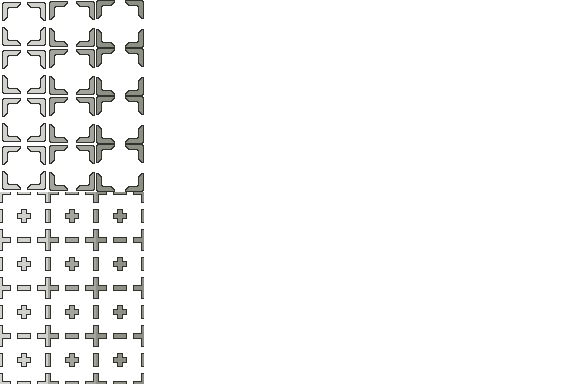
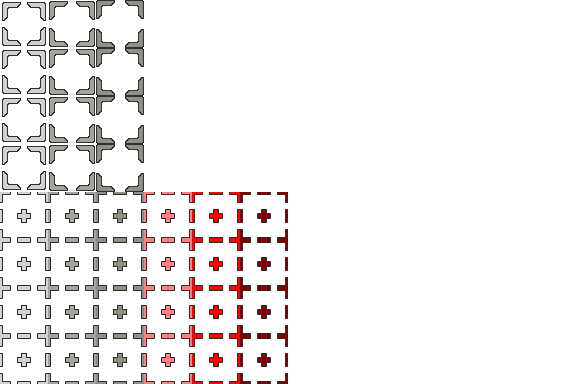
System changes part 3
Made "followup" hits that only trigger if at least one non-followup hit isn't dodged, and adjusted target finding accordingly. Moved "inital" action effects into hits, so every hit can have its own initial animation. Made a few math adjustments. Graphical display of AoEs is now different for followup and non-followup hits.

Changed region(s): [[0.25, 0.5, 0.5, 1.0]]

diff --git a/js/plugins/TurnBasedStrategyManagers.js b/js/plugins/TurnBasedStrategyManagers.js
@@ -136,10 +136,12 @@ BattleManager.initMembers = function() {
 	this._tbsActionInfo = null;
 	this._tbsTargets = [];
 	this._tbsTargetsByHit = [];
+	this._nonFollowupsAllDodged = true;
 	this._targetsOnLeft = false;
     this._subject = null;
     this._action = null;
     this._targets = [];
+	this._resultsArray = [];
     this._logWindow = null;
     this._leftActorStatusWindow = null;
     this._rightActorStatusWindow = null;
@@ -152,6 +154,10 @@ BattleManager.initMembers = function() {
 	this._curWindowTarget = null;
 	this._switchTargetTime = 30;
 	this._curSwitchTargetTime = -1;
+};
+
+BattleManager.resetNonFollowupsAllDodged = function() {
+	this._nonFollowupsAllDodged = true;
 };
 
 BattleManager.setLeftActorStatusWindow = function(actorStatusWindow) {
@@ -462,10 +468,26 @@ BattleManager.makeActionOrders = function() {
 BattleManager.startAction = function() {
     var subject = this._subject;
     var action = this._tbsActionInfo.action;
-    var targets = this._tbsTargets;
+    var targets = [];
+	var that = this;
+	this._tbsTargets.forEach(function (target) {
+		var results = that.combatMath(subject.battler, that._tbsActionInfo, target.battler, that._tbsTargetsByHit);
+		if(!results.skipTarget) {
+			targets.push(target);
+			that._resultsArray.push(results);
+		}
+	});
+    this._targets = targets;
+	this._tbsTargets = targets;
+	if(this._targetsOnLeft) {
+		this.refreshLeftActorStatusWindow();
+		this.refreshLeftActorNameWindow();
+	} else {
+		this.refreshRightActorStatusWindow();
+		this.refreshRightActorNameWindow();
+	}
     this._phase = 'action';
     this._action = action;
-    this._targets = targets;
     //subject.useItem(action.item());
     //this._action.applyGlobal();
     this.refreshStatus();
@@ -502,7 +524,8 @@ BattleManager.updateAction = function() {
 		}
 		this._curSwitchTargetTime = -1;
 		var target = this._targets.shift();
-        this.invokeAction(this._subject.battler, target.battler);
+		var results = this._resultsArray.shift();
+        this.invokeAction(this._subject.battler, target.battler, results);
     } else {
         this.endAction();
     }
@@ -515,26 +538,25 @@ BattleManager.endAction = function() {
 	$gameMap.setShouldPassTurn(this._shouldPassTurn);
 };
 
-BattleManager.invokeAction = function(subject, target) {
+BattleManager.invokeAction = function(subject, target, results) {
     this._logWindow.push('pushBaseLine');
     //if (Math.random() < this._action.itemCnt(target)) {
     //    this.invokeCounterAttack(subject, target);
     //} else if (Math.random() < this._action.itemMrf(target)) {
     //    this.invokeMagicReflection(subject, target);
     //} else {
-        this.invokeNormalAction(subject, target);
+        this.invokeNormalAction(subject, target, results);
     //}
     //subject.setLastTarget(target);
     this._logWindow.push('popBaseLine');
     this.refreshStatus();
 };
 
-BattleManager.invokeNormalAction = function(subject, target) {
+BattleManager.invokeNormalAction = function(subject, target, results) {
     //var realTarget = this.applySubstitute(target);
-	var results = this.combatMath(subject, this._tbsActionInfo, target, this._tbsTargetsByHit);
     //this._action.apply(realTarget);
 	this.applyActionResults(results, target);
-    this._logWindow.displayActionResults(subject, target, results);
+	this._logWindow.displayActionResults(subject, target, results);
 };
 
 BattleManager.combatMath = function(subject, actionInfo, target, targetsByHit) {
@@ -593,6 +615,7 @@ BattleManager.combatMath = function(subject, actionInfo, target, targetsByHit) {
 	results.revived = false;
 	results.shouldPassTurn = true;
 	results.animationIds = [];
+	results.skipTarget = true;
 	var hitDodged = true;
 	if(target.blankDummy()) {
 		results.shouldPassTurn = false;
@@ -602,6 +625,12 @@ BattleManager.combatMath = function(subject, actionInfo, target, targetsByHit) {
 	for(i = 0; i < action.hits.length; i++) {
 		if(battlersByHit[i].indexOf(target) === -1) { continue; }
 		var hit = action.hits[i];
+		if((hit.rangeType === "followUp" && this._nonFollowupsAllDodged)
+			|| (hit.randomTarget && Math.random() < 0.5))
+		{
+			continue;
+		}
+		results.skipTarget = false;
 		var damage = hit.damage;
 		if(damage) {
 			var subjectStress = subject.stress();
@@ -616,6 +645,7 @@ BattleManager.combatMath = function(subject, actionInfo, target, targetsByHit) {
 						break;
 					case "thrown":
 					case "fired":
+					case "followUp":
 						accSkill = subject.totalSkill("rangedAcc");
 						break;
 					case "mental":
@@ -990,6 +1020,9 @@ BattleManager.combatMath = function(subject, actionInfo, target, targetsByHit) {
 		} else if(!hitDodged && hit.animationId !== undefined && hit.animationId > 0) {
 			results.animationIds.push(hit.animationId);
 		}
+		if(!hitDodged) {
+			this._nonFollowupsAllDodged = false;
+		}
 	}
 	return results;
 };
@@ -1354,8 +1387,10 @@ BattleManager.resolvePhysicalDamage = function(hitDamage, accRoll, eva, partProt
 	var fluidBypass = false;
 	
 	if(partProt.defense.solid >= 3) {
+		solidThrustBypass = solidDamScale >= 2;
 		solidStilettoBypass = solidDamScale >= 1.5;
 	} else if(partProt.defense.solid >= 2) {
+		solidRegularBypass = solidDamScale >= 2;
 		solidThrustBypass = solidDamScale >= 1.5;
 		solidStilettoBypass = solidDamScale >= 1;
 	} else if(partProt.defense.solid >= 1) {
@@ -1363,8 +1398,8 @@ BattleManager.resolvePhysicalDamage = function(hitDamage, accRoll, eva, partProt
 		solidThrustBypass = solidDamScale >= 1;
 		solidStilettoBypass = solidDamScale >= 0.5;
 	} else {
-		solidRegularBypass = true;
-		solidThrustBypass = true;
+		solidRegularBypass = solidDamScale >= 1;
+		solidThrustBypass = solidDamScale >= 0.5;
 		solidStilettoBypass = true;
 	}
 	
@@ -1447,7 +1482,7 @@ BattleManager.rollForRanks = function(ranks, stress) {
 	var adjustStress = Math.max(0, Math.min(5, stress));
 	var adjustedRanks = Math.max(1, ranks + 2 - adjustStress);
 	if(adjustStress >= 5) {
-		adjustedRanks = Math.floor(adjustedRanks / 2);
+		adjustedRanks = Math.max(1, Math.floor(adjustedRanks / 2));
 	}
 	var result = 0;
 	while(adjustedRanks > 0) {

diff --git a/js/plugins/TurnBasedStrategyObjects.js b/js/plugins/TurnBasedStrategyObjects.js
@@ -160,13 +160,13 @@
 		return this._tbsAoeSpritesToAdd;
 	};
 	
-	Game_Temp.prototype.addTbsAoeSprite = function(x, y) {
+	Game_Temp.prototype.addTbsAoeSprite = function(x, y, isFollowUp) {
 		var chara = new Game_Character();
 		chara.setStepAnime(true);
 		chara.setPriorityType(2);
 		chara.setTbsBattleMode(true);
 		chara.setPosition(x, y);
-		chara.setImage("Cursor", 4);
+		chara.setImage("Cursor", isFollowUp ? 4 : 5);
 		this._tbsAoeSpritesToAdd.push(chara);
 		return chara;
 	};
@@ -632,11 +632,13 @@
 		return this._tbsActionTargetLocationY;
 	};
 	
-	Game_Map.prototype.isAnyTbsActionTargets = function() {
+	Game_Map.prototype.isAnyTbsActionTargets = function(ignoreFollowUpHits) {
 		var targetsByHit = this.getTbsActionTargetsByHit();
+		var hits = this._tbsSelectedAction.hits;
 		var i;
 		for(i = 0; i < targetsByHit.length; i++) {
-			if(targetsByHit[i].length > 1 || (targetsByHit[i].length === 1 && !targetsByHit[i][0].battler.blankDummy())) { return true; }
+			if((!ignoreFollowUpHits || hits[i].rangeType !== "followUp") && (targetsByHit[i].length > 1
+				|| (targetsByHit[i].length === 1 && !targetsByHit[i][0].battler.blankDummy()))) { return true; }
 		}
 		return false;
 	};
@@ -669,7 +671,6 @@
 		hits.forEach(function (hit) {
 			var targets = [];
 			if(hit.aoe !== undefined && hit.aoe > 0) {
-				targets.push(centerTarget);
 				var centerPointX = $gamePlayer.x;
 				var centerPointY = $gamePlayer.y;
 				var aoeRange = hit.aoe / 2;
@@ -719,7 +720,7 @@
 							|| that.getExistingTbsTile(x, y, that._tbsAoeSprites)) { continue; }
 						var distance = that.actualDistance(x, y, centerPointX, centerPointY);
 						if(distance <= aoeRange) {
-							that._tbsAoeSprites.push($gameTemp.addTbsAoeSprite(x, y));
+							that._tbsAoeSprites.push($gameTemp.addTbsAoeSprite(x, y, hit.rangeType === "followUp"));
 						}
 					}
 				}
@@ -941,7 +942,7 @@
 				break;
 			case "actionBattleScene":
 				$gamePlayer.setTbsShowCursor(true);
-				if(!this._tbsSelectedAction.skipBattleScene && this.isAnyTbsActionTargets()) {
+				if(!this._tbsSelectedAction.skipBattleScene && this.isAnyTbsActionTargets(true)) {
 					this._tbsInActionBattleScene = true;
 				}
 				var chara = this._tbsSelectedActor.chara;
@@ -1666,7 +1667,7 @@
 	
 	Game_Map.prototype.updateTbsActionBattleScene = function() {
 		if(this._tbsInActionBattleScene) { return; }
-		if(!this._tbsSelectedAction.skipBattleScene && this.isAnyTbsActionTargets()) {
+		if(!this._tbsSelectedAction.skipBattleScene && this.isAnyTbsActionTargets(true)) {
 			if(this._tbsCurAfterBtlScnFrames === -1) {
 				this._tbsCurAfterBtlScnFrames = this._tbsAfterBtlScnFrames;
 				return;
@@ -1678,18 +1679,21 @@
 			}
 		}
 		this._tbsCurAfterBtlScnFrames = -1;
-		if(this._tbsSelectedAction.skipBattleScene || !this.isAnyTbsActionTargets()) {
+		if(this._tbsSelectedAction.skipBattleScene || !this.isAnyTbsActionTargets(true)) {
 			var tbsTargets = this.getTbsActionTargets();
 			var tbsTargetsByHit = this.getTbsActionTargetsByHit();
 			if(tbsTargets.length > 0) {
 				var that = this;
 				tbsTargets.forEach(function (tbsTarget) {
+					BattleManager.resetNonFollowupsAllDodged();
 					var results = BattleManager.combatMath(that._tbsSelectedActor.battler, that._tbsSelectedActionInfo, tbsTarget.battler, tbsTargetsByHit);
-					BattleManager.applyActionResults(results, tbsTarget.battler);
+					if(!results.skipTarget) {
+						BattleManager.applyActionResults(results, tbsTarget.battler);
+					}
 				});
 			}
 		}
-		if(this.isAnyTbsActionTargets()) {
+		if(this.isAnyTbsActionTargets(false)) {
 			this.getTbsActionTargets().forEach(function (tbsTarget) {
 				if(tbsTarget.canActThisRound && tbsTarget.battler.isDown()) {
 					tbsTarget.canActThisRound = false;

diff --git a/js/plugins/TurnBasedStrategyStats.js b/js/plugins/TurnBasedStrategyStats.js
@@ -53,6 +53,7 @@
 			{
 				var note = $dataArmors[i].note.length > 0 ? $dataArmors[i].note : "{}";
 				$dataArmors[i].tbsStats = JSON.parse(note);
+				this.sortActionsHits($dataArmors[i].tbsStats.actions);
 				DataManager.setUpAnimationIds($dataArmors[i]);
 			}
 		}
@@ -63,6 +64,7 @@
 			{
 				var note = $dataWeapons[i].note.length > 0 ? $dataWeapons[i].note : "{}";
 				$dataWeapons[i].tbsStats = JSON.parse(note);
+				this.sortActionsHits($dataWeapons[i].tbsStats.actions);
 				DataManager.setUpAnimationIds($dataWeapons[i]);
 			}
 		}
@@ -82,6 +84,7 @@
 			{
 				var note = $dataSkills[i].note.length > 0 ? $dataSkills[i].note : "{}";
 				$dataSkills[i].tbsStats = JSON.parse(note);
+				this.sortActionHits($dataSkills[i].tbsStats.action);
 				DataManager.setUpAnimationIds($dataSkills[i]);
 			}
 		}
@@ -92,6 +95,7 @@
 			{
 				var note = $dataItems[i].note.length > 0 ? $dataItems[i].note : "{}";
 				$dataItems[i].tbsStats = JSON.parse(note);
+				this.sortActionsHits($dataItems[i].tbsStats.actions);
 				DataManager.setUpAnimationIds($dataItems[i]);
 			}
 		}
@@ -99,6 +103,28 @@
 		turnBasedStrategyStatsLoaded = true;
 		
 		return true;
+	};
+	
+	DataManager.sortActionsHits = function(actions) {
+		if(!actions) { return; }
+		var that = this;
+		actions.forEach(function (action) {
+			that.sortActionHits(action);
+		});
+	};
+	
+	DataManager.sortActionHits = function(action) {
+		if(!action || !action.hits) { return; }
+		var initialHits = [];
+		var followUpHits = [];
+		action.hits.forEach(function(hit) {
+			if(hit.rangeType === "followUp") {
+				followUpHits.push(hit);
+			} else {
+				initialHits.push(hit);
+			}
+		});
+		action.hits = initialHits.concat(followUpHits);
 	};
 	
 	DataManager.setUpAnimationIds = function(dataArrayItem) {
@@ -113,17 +139,18 @@
 			if(action.attackMotion) {
 				action.attackMotion.imageId = DataManager.getWeaponImageId(action.attackMotion.image);
 			}
-			if(action.initialAnimation) {
-				action.initialAnimationId = 0;
-				for(i = 1; i < $dataAnimations.length; i++) {
-					if($dataAnimations[i].name.toLowerCase() === action.initialAnimation.toLowerCase()) {
-						action.initialAnimationId = i;
-						break;
-					}
-				}
-			}
 			if(action.hits) {
 				action.hits.forEach(function (hit) {
+					if(hit.initialAnimation) {
+						hit.initialAnimationId = 0;
+						var i;
+						for(i = 1; i < $dataAnimations.length; i++) {
+							if($dataAnimations[i].name.toLowerCase() === hit.initialAnimation.toLowerCase()) {
+								hit.initialAnimationId = i;
+								break;
+							}
+						}
+					}
 					if(hit.animation) {
 						hit.animationId = 0;
 						var i;

diff --git a/js/plugins/TurnBasedStrategyWindows.js b/js/plugins/TurnBasedStrategyWindows.js
@@ -2457,7 +2457,6 @@ Window_TbsBreadcrumb.prototype.updateOpen = function() {
 			this.drawIcon(iconId, nameOffset + 116, lineHeight + this.lineHeight() * lineOffset);
 			var power = heal !== undefined ? heal : 0;
 			this.drawText(power > 0 ? power : "-", nameOffset + 78, lineHeight + this.lineHeight() * lineOffset, 100, 'right');
-			this.drawText("-", nameOffset + 124, lineHeight + this.lineHeight() * lineOffset, 100, 'right');
 			if(drawName && lineOffset > 0) {
 				if(reqLacked) {
 					this.changeTextColor(this.deathColor());
@@ -2517,6 +2516,7 @@ Window_TbsBreadcrumb.prototype.updateOpen = function() {
 			case "melee":          	return  97; break;
 			case "thrown":         	return 114; break;
 			case "fired":          	return 102; break;
+			case "followUp":        return  73; break;
 			
 			case "skill":      	   	return  88; break;
 			case "knowledge":      	return  79; break;
@@ -3321,13 +3321,17 @@ Window_TbsBreadcrumb.prototype.updateOpen = function() {
 		//subject.performActionEnd();
 	};
 	
-	Window_BattleLog.prototype.showInitialAnimation = function(centerTarget, animationId) {
-		if(animationId !== undefined && animationId > 0) {
-			var animation = $dataAnimations[animationId];
-			if (animation) {
-				centerTarget.startAnimation(animationId, false, this.animationBaseDelay());
+	Window_BattleLog.prototype.showInitialAnimations = function(centerTarget, hits) {
+		if(!hits) { return; }
+		var that = this;
+		hits.forEach(function(hit) {
+			if(hit.initialAnimationId !== undefined && hit.initialAnimationId > 0) {
+				var animation = $dataAnimations[hit.initialAnimationId];
+				if (animation) {
+					centerTarget.startAnimation(hit.initialAnimationId, false, that.animationBaseDelay());
+				}
 			}
-		}
+		});
 	};
 	
 	Window_BattleLog.prototype.showAnimation = function(subject, targets, animationId) {
@@ -3372,7 +3376,7 @@ Window_TbsBreadcrumb.prototype.updateOpen = function() {
 		this.push('performActionStart', subject, action);
 		this.push('waitForMovement');
 		this.push('performAction', subject, action);
-		this.push('showInitialAnimation', targets.clone()[0].battler, action.initialAnimationId);
+		this.push('showInitialAnimations', targets.clone()[0].battler, action.hits);
 		this.displayAction(subject, action);
 	};
 
